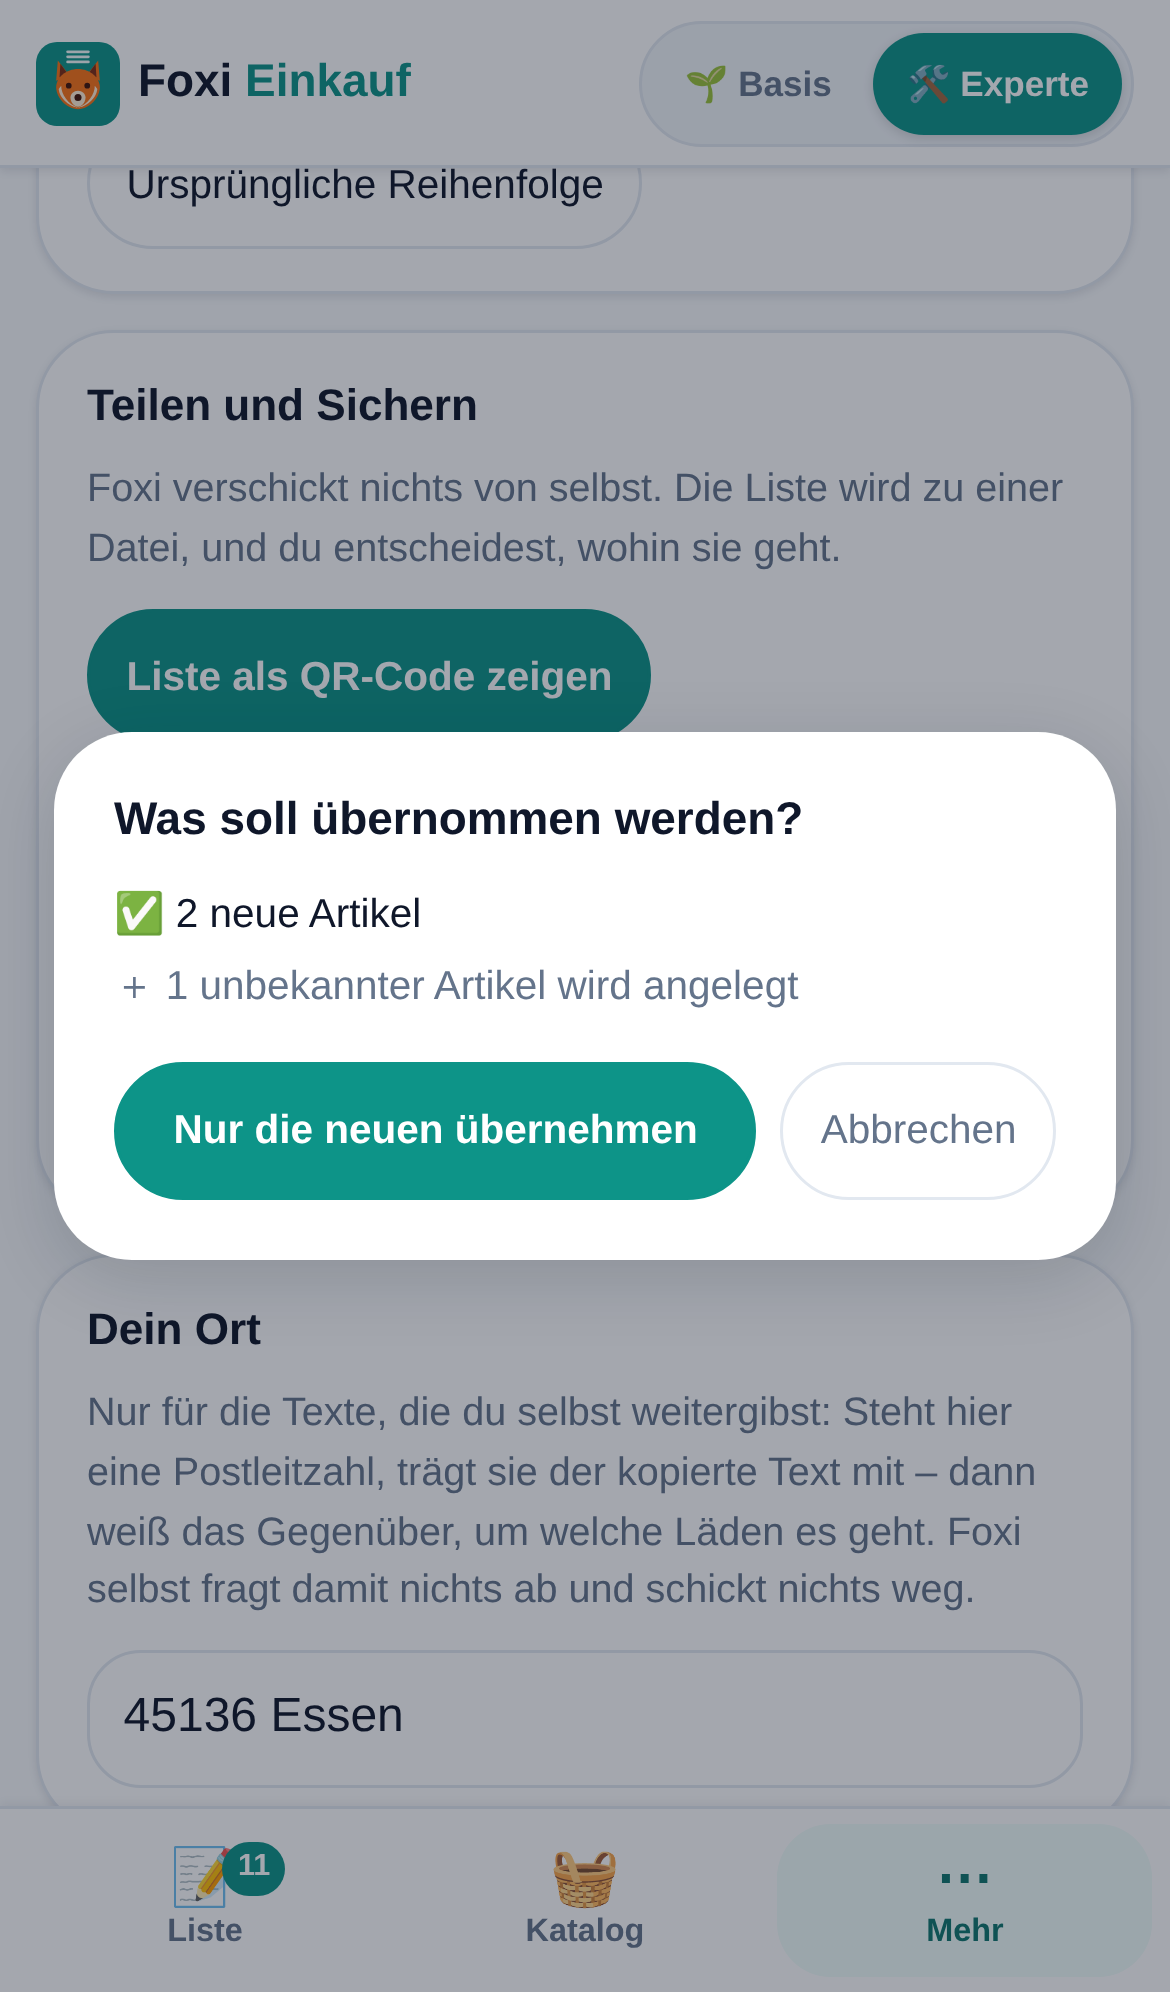
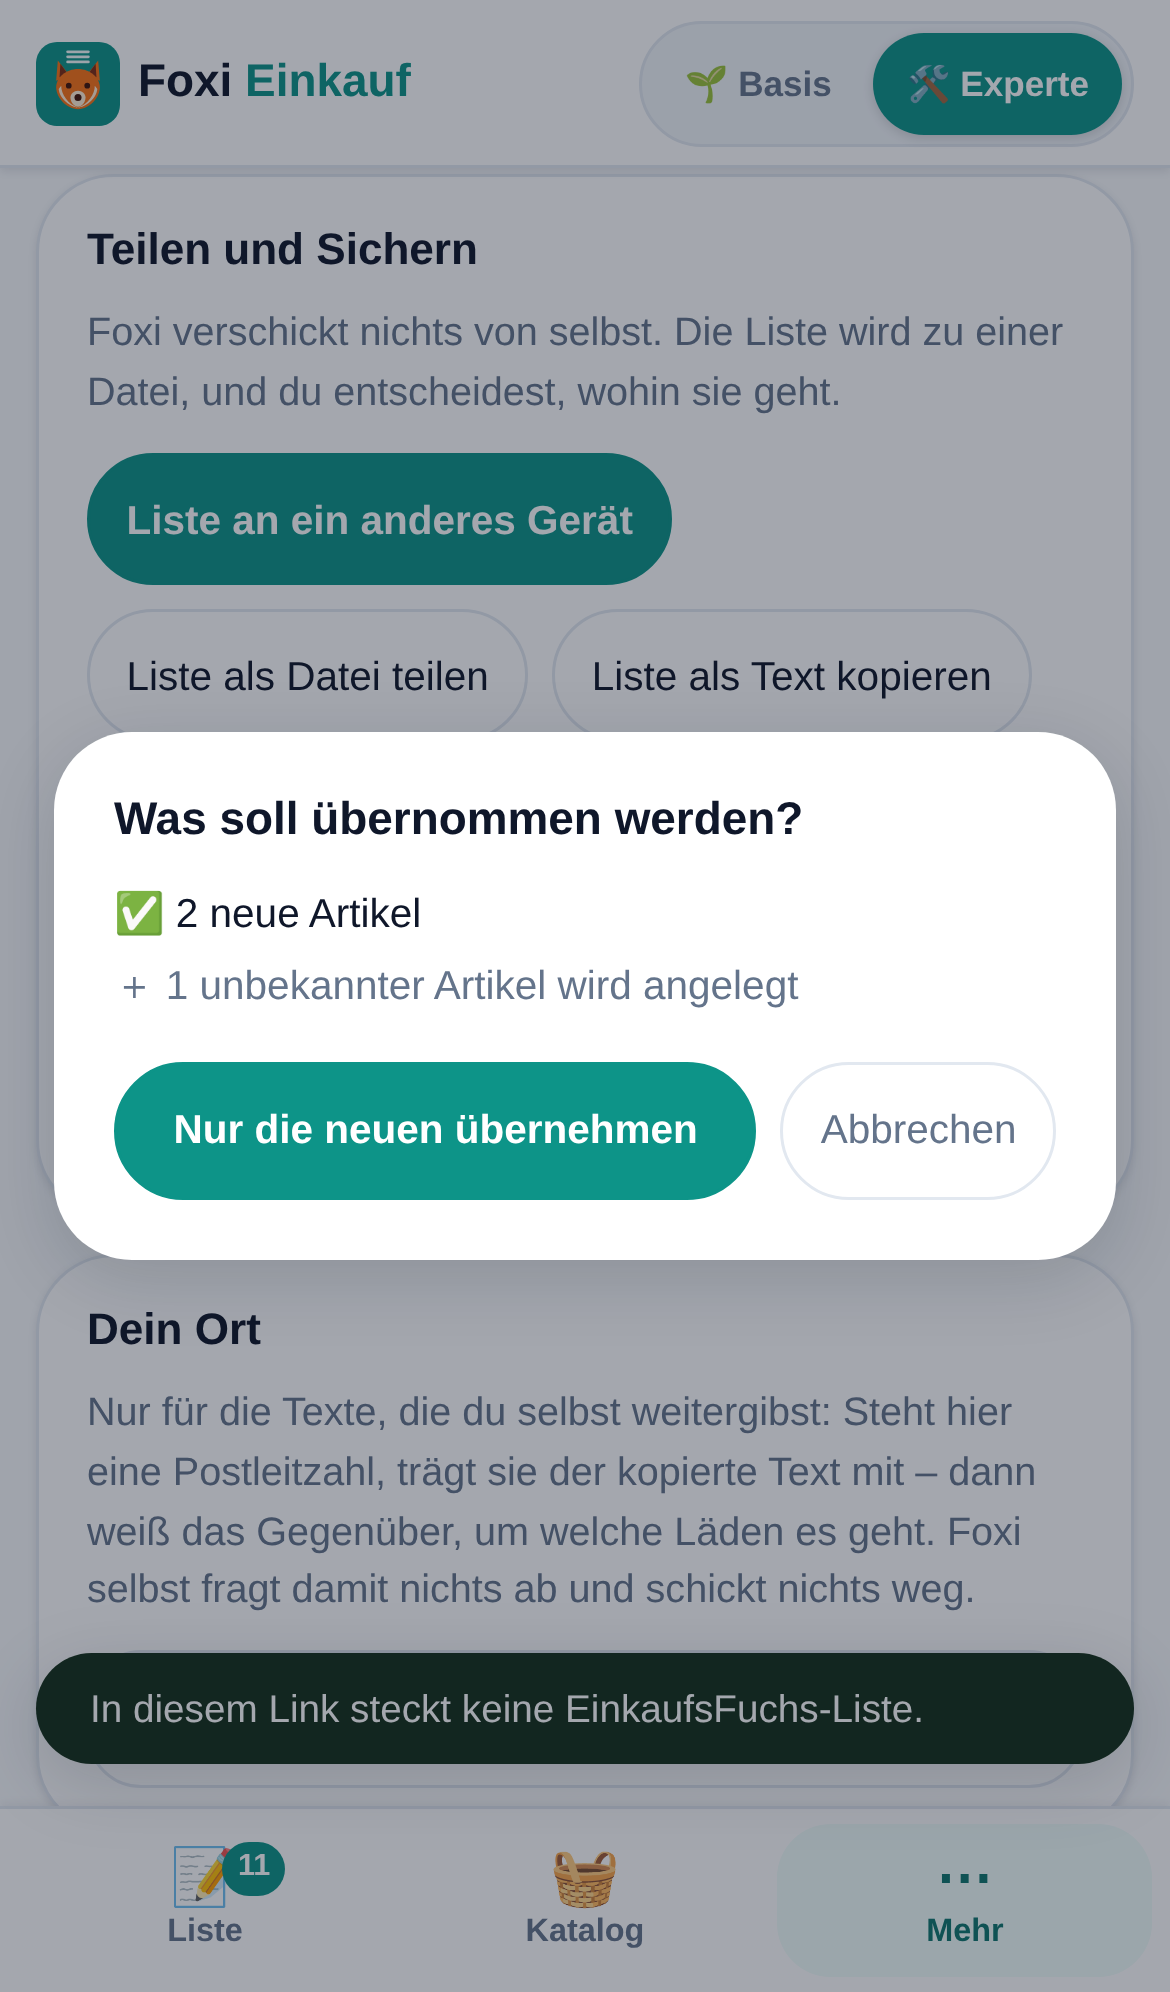
Die Liste als Link senden – und von Hand einfügen (#14)
Der QR-Code setzt denselben Raum voraus; genau dann braucht man ihn am
wenigsten. Der eigentliche Fall ist: Einer ist zu Hause, der andere im
Laden. „Als Link senden" schickt dieselbe Adresse in eine Nachricht –
die Liste steht ja im Link.

Die Gegenrichtung ist der eigentliche Punkt
Ein angetippter Link in einer Nachricht öffnet den eingebauten Browser
des Messengers, und der hat seinen eigenen Speicher. Dort übernommen,
wäre die Liste in der Foxi auf dem Startbildschirm nie angekommen –
drei Sekunden sichtbar, dann weg. Auf iOS gilt dasselbe für den
QR-Code, weil die Kamera Safari öffnet und nicht die installierte App.

Deshalb „Link einfügen" neben „Datei einlesen": Link kopieren, die
eigene Foxi öffnen, einfügen, derselbe Zusammenführungs-Dialog. Der
Satz dazu steht im Sendedialog, damit der Absender ihn weitergeben
kann. Zuerst wird die Zwischenablage gefragt; geht das nicht, erscheint
ein Feld statt einer Fehlermeldung. Der Ursprung im Link ist dabei
absichtlich egal – geprüft wird der Inhalt, nicht die Herkunft.

Nebenbei ein Fehler, den erst das Bildschirmfoto zeigte
Ein Dialog, der höher ist als der Bildschirm, stand beim Öffnen sofort
am Ende: Der Fokus sprang auf den ersten Knopf, und der steht unten in
der Leiste. Die Überschrift lag dann oberhalb des Sichtbaren. Jetzt
bekommt die Dialogkarte selbst den Fokus.

Bewusst nicht gebaut: mehrere Listen
Der Wunsch dahinter ist „nur diese drei Sachen schicken", nicht „zwei
[…]

diff --git a/src/ui/teilen.js b/src/ui/teilen.js
@@ -25,7 +25,7 @@ import {
 import { qrErzeugen, qrZeichnen } from '../qrcode.js';
 import { zustand, offeneEintraege, importAnwenden, alleArtikel, ort } from '../zustand.js';
 import { melde } from './schale.js';
-import { zeigeDialog, dialogZeile } from './dialog.js';
+import { zeigeDialog, dialogZeile, dialogFeld } from './dialog.js';
 
 /* ────────────────────────────────────────────────────────────────────────
    Hinaus
@@ -206,10 +206,96 @@ export async function zeigeQrCode() {
             rahmen,
             dialogZeile(t('qr.artikelZahl', eintraege.length), 'qr-zahl'),
             dialogZeile(t('qr.erklaerung'), 'muted small'),
+            dialogZeile(t('qr.linkGegenseite'), 'muted small'),
             dialogZeile(t('qr.ohneFotos'), 'muted small')
         ],
-        knoepfe: []
+        knoepfe: [{ text: t('qr.linkSenden'), betont: true, wirkung: teileQrLink }]
     });
+}
+
+/**
+ * Derselbe Inhalt, anderer Weg: der Link in eine Nachricht.
+ *
+ * Für den Fall, für den der QR-Code nichts taugt – der eine ist zu Hause,
+ * der andere im Laden. Bildschirm-an-Kamera setzt denselben Raum voraus;
+ * genau dann braucht man es am wenigsten.
+ *
+ * Die Liste steht **im** Link. Das ist dieselbe Kategorie wie die Datei, die
+ * Foxi schon heute per Messenger teilt: Ein Mensch entscheidet und schickt.
+ * Was der Messenger für die Vorschau holt, ist nur die App-Adresse – den
+ * Teil hinter der Raute bekommt kein Server zu sehen.
+ */
+export async function teileQrLink() {
+    const adresse = await aktuelleQrAdresse();
+    if (!adresse) { melde(t('teilen.leerNichtsZuTeilen')); return; }
+
+    if (navigator.share) {
+        try {
+            /* `url` statt `text`: Messenger und die iOS-Teilen-Auswahl
+               behandeln einen Link dann als Link. */
+            await navigator.share({ title: t('app.name'), url: adresse });
+            melde(t('teilen.geteilt'));
+            return;
+        } catch (fehler) {
+            if (fehler?.name === 'AbortError') { melde(t('teilen.abgebrochen')); return; }
+        }
+    }
+    await kopiereText(adresse, t('qr.linkKopiert'), t('qr.titel'));
+}
+
+/**
+ * Die Gegenrichtung – und der Grund, warum es sie geben muss.
+ *
+ * Ein angetippter Link in einer Nachricht öffnet den eingebauten Browser des
+ * Messengers. Der hat seinen eigenen Speicher: Dort übernommen, wäre die
+ * Liste in der richtigen Foxi nie angekommen. Deshalb der Weg von Hand –
+ * Link kopieren, eigene Foxi öffnen, hier einfügen.
+ *
+ * Erst wird die Zwischenablage gefragt; geht das nicht (Safari ohne Geste,
+ * Firefox, verweigerte Berechtigung), fragt Foxi den Menschen.
+ */
+export async function linkEinlesen() {
+    try {
+        const ablage = await navigator.clipboard.readText();
+        if (await linkUebernehmen(ablage)) return;
+    } catch {
+        /* Keine Zwischenablage: dann eben das Feld. */
+    }
+
+    const feld = dialogFeld({
+        platzhalter: t('qr.linkPlatzhalter'),
+        beschriftung: t('qr.linkTitel'),
+        bestaetigen: (wert) => linkUebernehmen(wert, true)
+    });
+    zeigeDialog({
+        titel: t('qr.linkTitel'),
+        fokus: true,
+        koerper: [feld, dialogZeile(t('qr.linkHinweis'), 'muted small')],
+        knoepfe: [{
+            text: t('qr.linkUebernehmen'),
+            betont: true,
+            wirkung: () => linkUebernehmen(feld.value, true)
+        }]
+    });
+}
+
+/**
+ * Aus einem eingefügten Text eine Liste machen.
+ *
+ * Der Ursprung im Link ist absichtlich egal: Ein Link von einer anderen
+ * Adresse derselben App – nach einem Umzug, aus einer älteren Nachricht –
+ * trägt dieselben Daten hinter der Raute. Geprüft wird der Inhalt, nicht die
+ * Herkunft; übernommen wird auch hier erst nach dem Dialog.
+ */
+async function linkUebernehmen(text, meldenWennNichts = false) {
+    const roh = String(text || '');
+    const raute = roh.indexOf('#');
+    const anteil = raute < 0 ? null : qrAnteilAusAdresse(roh.slice(raute));
+    if (!anteil) {
+        if (meldenWennNichts) melde(t('qr.linkKeineListe'));
+        return false;
+    }
+    return anteilUebernehmen(anteil);
 }
 
 /**
@@ -226,7 +312,11 @@ export async function qrAusAdresseUebernehmen(ort = window.location) {
     const anteil = qrAnteilAusAdresse(ort?.hash);
     if (!anteil) return false;
     ankerEntfernen(ort);
+    return anteilUebernehmen(anteil);
+}
 
+/** Der gemeinsame Rest beider Empfangswege: prüfen, dann fragen. */
+async function anteilUebernehmen(anteil) {
     const pruefung = await pruefeQrListe(anteil);
     if (!pruefung.gueltig) {
         const hinweis = { mehrteilig: 'qr.mehrteilig', zuAlt: 'qr.zuAlt' }[pruefung.grund] || 'qr.ungueltig';
@@ -234,8 +324,8 @@ export async function qrAusAdresseUebernehmen(ort = window.location) {
         return false;
     }
     /* Von hier an derselbe Weg wie beim Datei-Import: dieselbe Prüfung,
-       derselbe Dialog, dieselbe Übernahme. Ein QR-Code ist ein anderer
-       Transportweg, keine zweite Wahrheit. */
+       derselbe Dialog, dieselbe Übernahme. QR-Code und Link sind andere
+       Transportwege, keine zweite Wahrheit. */
     zeigeZusammenfuehrung({
         typ: DATEI_TYP,
         version: DATEI_VERSION,

diff --git a/index.html b/index.html
@@ -15,16 +15,16 @@
     <meta name="apple-mobile-web-app-capable" content="yes">
     <meta name="apple-mobile-web-app-status-bar-style" content="default">
     <meta name="apple-mobile-web-app-title" content="Foxi">
-    <link rel="apple-touch-icon" href="icons/apple-touch-icon.png?v=0.11.0">
+    <link rel="apple-touch-icon" href="icons/apple-touch-icon.png?v=0.12.0">
 
     <title>EinkaufsFuchs – Einkaufsliste</title>
     <link rel="manifest" href="manifest.webmanifest">
     <!-- Moderne Browser nehmen das skalierbare Zeichen. PNG und das
          klassische Root-Favicon bedienen ältere Browser und Dashboard-
          Crawler, die das Manifest oder SVG-Favicons nicht auswerten. -->
-    <link rel="icon" href="icons/foxi.svg?v=0.11.0" type="image/svg+xml">
-    <link rel="icon" href="icons/favicon-64.png?v=0.11.0" type="image/png" sizes="64x64">
-    <link rel="shortcut icon" href="favicon.ico?v=0.11.0" type="image/x-icon">
+    <link rel="icon" href="icons/foxi.svg?v=0.12.0" type="image/svg+xml">
+    <link rel="icon" href="icons/favicon-64.png?v=0.12.0" type="image/png" sizes="64x64">
+    <link rel="shortcut icon" href="favicon.ico?v=0.12.0" type="image/x-icon">
     <link rel="stylesheet" href="src/styles/stamm/variables.css">
     <link rel="stylesheet" href="src/styles/farben.css">
     <link rel="stylesheet" href="src/styles/stamm/base.css">
@@ -54,7 +54,7 @@
                  Namen zu hören, nicht zwei. Deshalb braucht es hier kein
                  einziges `aria`-Attribut. -->
             <div class="brand">
-                <img class="brand-icon" src="icons/foxi.svg?v=0.11.0" alt="">
+                <img class="brand-icon" src="icons/foxi.svg?v=0.12.0" alt="">
                 <span class="brand-name brand-lang" data-text="app.name">EinkaufsFuchs</span>
                 <span class="brand-name brand-kurz">
                     <span data-text="app.kurz">Foxi</span>

diff --git a/src/texte.js b/src/texte.js
@@ -166,12 +166,27 @@ const DE = {
      * weitergibt, soll wissen, was er weitergibt – und was nicht.
      */
     qr: {
-        knopf: 'Liste als QR-Code zeigen',
-        titel: 'Liste als QR-Code',
+        knopf: 'Liste an ein anderes Gerät',
+        titel: 'Liste an ein anderes Gerät',
         erklaerung:
-            'Halte die Kamera des anderen Geräts darauf – die gewöhnliche Kamera-App genügt. ' +
-            'Sie öffnet Foxi mit dieser Liste. Es wird nichts verschickt und nichts gespeichert.',
+            'Im selben Raum: Halte die Kamera des anderen Geräts darauf – die gewöhnliche ' +
+            'Kamera-App genügt. Unterwegs: Schick denselben Inhalt als Link.',
         ohneFotos: 'Fotos, Kaufhistorie und dein Ort fahren nicht mit.',
+
+        /* Der Link ist dieselbe Adresse, die im Bild steckt. */
+        linkSenden: 'Als Link senden',
+        linkKopiert: 'Link in der Zwischenablage',
+        /* Der wichtigste Satz auf dieser Seite: Ein angetippter Link in einer
+           Nachricht öffnet den eingebauten Browser des Messengers, und der
+           hat seinen eigenen Speicher. Dort übernommen, ist die Liste in der
+           richtigen Foxi nicht angekommen. */
+        linkGegenseite: 'Am anderen Ende: Link kopieren, die eigene Foxi öffnen, „Link einfügen".',
+        linkEinfuegen: 'Link einfügen',
+        linkTitel: 'Link einfügen',
+        linkPlatzhalter: 'https://…#lz=…',
+        linkHinweis: 'Kopiere den Link aus der Nachricht und füge ihn hier ein.',
+        linkUebernehmen: 'Liste lesen',
+        linkKeineListe: 'In diesem Link steckt keine EinkaufsFuchs-Liste.',
         artikelZahl: (n) => (n === 1 ? '1 Artikel' : `${n} Artikel`),
         bildBeschriftung: (n) =>
             n === 1 ? 'QR-Code mit 1 Artikel' : `QR-Code mit ${n} Artikeln`,

diff --git a/src/ui/dialog.js b/src/ui/dialog.js
@@ -88,8 +88,15 @@ export function zeigeDialog({ titel, koerper = [], knoepfe = [], fokus = false }
        `schale.js` holt ihn zurück). Der Fokus wandert trotzdem in den
        Dialog – auf den ersten Knopf –, damit Tastatur und Vorlesehilfe
        nicht hinter der Auflage weiterlaufen. */
+    /* Ohne Tippabsicht bekommt die **Karte** den Fokus, nicht der erste
+       Knopf. Der erste Knopf steht unten in der Leiste: Ihn zu fokussieren
+       rollt einen langen Dialog sofort ans Ende – die Überschrift stand dann
+       oberhalb des Sichtbaren, und man sah einen Bildschirm ohne Titel.
+       Die Karte ist per `tabindex="-1"` fokussierbar, ohne in die
+       Tabulatorreihenfolge zu geraten. */
+    karte.tabIndex = -1;
     const erstesFeld = fokus ? rumpf.querySelector('input, textarea') : null;
-    setTimeout(() => (erstesFeld || karte.querySelector('button'))?.focus(), 0);
+    setTimeout(() => (erstesFeld || karte).focus(), 0);
     return auflage;
 }
 

diff --git a/sw.js b/sw.js
@@ -11,7 +11,7 @@
  * Netz fällt Foxi auf die vollständige App-Schale zurück.
  */
 
-const CACHE = 'einkaufsfuchs-v0.11.0';
+const CACHE = 'einkaufsfuchs-v0.12.0';
 
 const SCHALE = [
     './',
@@ -41,13 +41,13 @@ const SCHALE = [
     'src/ui/artikelblatt.js',
     'src/daten/katalog.json',
     'src/daten/rezepte.json',
-    'favicon.ico?v=0.11.0',
-    'icons/foxi.svg?v=0.11.0',
-    'icons/favicon-64.png?v=0.11.0',
-    'icons/icon-192.png?v=0.11.0',
-    'icons/icon-512.png?v=0.11.0',
-    'icons/maskable-512.png?v=0.11.0',
-    'icons/apple-touch-icon.png?v=0.11.0'
+    'favicon.ico?v=0.12.0',
+    'icons/foxi.svg?v=0.12.0',
+    'icons/favicon-64.png?v=0.12.0',
+    'icons/icon-192.png?v=0.12.0',
+    'icons/icon-512.png?v=0.12.0',
+    'icons/maskable-512.png?v=0.12.0',
+    'icons/apple-touch-icon.png?v=0.12.0'
 ];
 
 self.addEventListener('install', (ereignis) => {

diff --git a/src/ui/mehr.js b/src/ui/mehr.js
@@ -19,7 +19,8 @@ import {
 import { melde, zeigeBereich } from './schale.js';
 import { zeigeDialog, dialogFeld, schliesseDialog } from './dialog.js';
 import {
-    teileAlsDatei, kopiereListeAlsText, kopiereStammartikel, dateiEinlesen, zeigeQrCode
+    teileAlsDatei, kopiereListeAlsText, kopiereStammartikel, dateiEinlesen,
+    zeigeQrCode, linkEinlesen
 } from './teilen.js';
 import {
     aktuelleAngebote, rechercheAuftragKopieren, ergebnisEinfuegen,
@@ -330,6 +331,7 @@ function teilenKarte() {
         knopf(t('teilen.alsDatei'), teileAlsDatei),
         knopf(t('teilen.alsText'), kopiereListeAlsText),
         knopf(t('teilen.stammartikel'), kopiereStammartikel),
+        knopf(t('qr.linkEinfuegen'), linkEinlesen),
         knopf(t('teilen.importieren'), dateiEinlesen)
     ));
     abschnitt.append(absatz(t('teilen.langDrueckenHinweis'), 'muted small'));

diff --git a/src/version.js b/src/version.js
@@ -1,3 +1,3 @@
 /* Die Versionskonsistenz zwischen Anwendung, Manifest, Icon-Adressen und
    Service-Worker-Cache wird in `tests/pwa.test.js` bewacht. */
-export const VERSION = '0.11.0';
+export const VERSION = '0.12.0';

diff --git a/docs/KONZEPT.md b/docs/KONZEPT.md
@@ -548,6 +548,42 @@ für dieselbe Handlung.
 schickt kein Browser zu irgendeinem Server. Was über das Netz geht, ist die
 App selbst – und auch die nur, wenn sie dort noch nicht installiert ist.
 
+### Derselbe Inhalt als Link – und die Falle dabei
+
+Bildschirm-an-Kamera setzt denselben Raum voraus; genau dann braucht man es
+am wenigsten. Der eigentliche Fall ist: Einer ist zu Hause, der andere im
+Laden. Dafür schickt „Als Link senden" **dieselbe Adresse** in eine
+Nachricht – die Liste steht ja im Link.
+
+Dabei lauert eine Falle, die den ganzen Weg stumm entwertet: **Ein
+angetippter Link in einer Nachricht öffnet den eingebauten Browser des
+Messengers.** Der hat seinen eigenen Speicher. Dort übernommen, ist die Liste
+in der Foxi auf dem Startbildschirm **nie angekommen** – sie war drei
+Sekunden lang zu sehen und ist dann weg. Dasselbe gilt auf iOS für den
+QR-Code, weil die Kamera Safari öffnet und nicht die installierte App.
+
+Deshalb gibt es die Gegenrichtung von Hand: **„Link einfügen"** neben „Datei
+einlesen". Der Ablauf unterwegs ist damit: Link kopieren → die **eigene**
+Foxi öffnen → einfügen → derselbe Zusammenführungs-Dialog. Der Satz dazu
+steht im Sendedialog, damit ihn der Absender weitergeben kann.
+
+Zwei Dinge sind beim Einfügen Absicht:
+
+- **Der Ursprung im Link ist egal.** Ein Link von einer anderen Adresse
+  derselben App – nach einem Umzug, aus einer alten Nachricht – trägt
+  dieselben Daten hinter der Raute. Geprüft wird der Inhalt, nicht die
+  Herkunft.
+- **Zuerst die Zwischenablage, dann die Frage.** Geht `readText()` nicht
+  (Safari ohne Geste, Firefox, verweigerte Berechtigung), erscheint ein Feld
+  statt einer Fehlermeldung.
+
+Und zur Einordnung, weil Foxi ein Versprechen gibt: Die Liste steht **im**
+Link; wer die Nachricht hat, hat die Liste. Das ist dieselbe Kategorie wie
+die Datei, die Foxi längst per Messenger teilt – ein Mensch entscheidet und
+schickt. Immerhin: Was ein Messenger für die Linkvorschau holt, ist nur die
+App-Adresse. Den Teil hinter der Raute bekommt auch dieser Abruf nie zu
+sehen.
+
 ### Was nicht mitfährt
 
 - **Fotos.** Ein Produktfoto ist bis 900 KB groß, ein QR-Code fasst 2,9 KB.
@@ -794,7 +830,7 @@ Tastatur öffnet.
 ```bash
 npm test                    # 191 Unit-Tests: Sortierung, Suche, Gruppierung,
                             # Exporte, Import, Datenintegrität
-node tools/durchlauf.mjs    # 93 Prüfungen im echten Browser (Chromium,
+node tools/durchlauf.mjs    # 99 Prüfungen im echten Browser (Chromium,
                             # iPhone-13-Profil) + die Bilder in docs/bilder/
 ```
 

diff --git a/README.md b/README.md
@@ -4,7 +4,7 @@
 ![Kein Konto](https://img.shields.io/badge/Kein%20Konto-kein%20Login%2C%20kein%20Backend-0f766e)
 ![PWA](https://img.shields.io/badge/PWA-offlinef%C3%A4hig-purple)
 ![MIT License](https://img.shields.io/badge/License-MIT-yellow)
-![Version](https://img.shields.io/badge/Version-0.11.0-orange)
+![Version](https://img.shields.io/badge/Version-0.12.0-orange)
 
 **Tippen statt Tippen.**
 
@@ -133,7 +133,7 @@ sichtbare Komplexität.
 | Rezepte | – | ✅ |
 | Kategorie-Reihenfolge ziehen | – | ✅ |
 | Teilen, Export und Import | – | ✅ |
-| Liste als QR-Code an ein anderes Gerät | – | ✅ |
+| Liste als QR-Code oder Link an ein anderes Gerät | – | ✅ |
 | Briefing-Export als Klartext | – | ✅ |
 | Stammartikel-Export | – | ✅ |
 | Wochenangebote mit KI | ✅ | ✅ |
@@ -163,6 +163,16 @@ Benachrichtigung; Foxi öffnet sich dort mit derselben Liste und fragt, was
 Die Daten stehen im Anker der Adresse – und alles hinter dem Rautezeichen
 schickt kein Browser zu irgendeinem Server. Ein Wocheneinkauf mit 25 Artikeln
 passt bequem in einen einzigen Code.
+
+**Unterwegs geht derselbe Inhalt als Link.** „Als Link senden" legt ihn in
+WhatsApp, Threema, Signal oder eine Mail – für den Fall, für den der QR-Code
+nichts taugt: Einer ist zu Hause, der andere im Laden.
+
+Am anderen Ende gehört dann **„Link einfügen"** dazu, und das ist kein
+Beiwerk: Ein angetippter Link öffnet den eingebauten Browser des Messengers,
+und der hat seinen eigenen Speicher – dort übernommen, wäre die Liste in der
+richtigen Foxi nie angekommen. Der Weg ist deshalb: Link kopieren, die eigene
+Foxi öffnen, einfügen.
 
 **Was nicht mitfährt:** Fotos (ein Produktfoto ist dreitausendmal so groß wie
 ein QR-Code fasst), die Kaufhistorie, die gelernten Mengen und dein Ort.
@@ -382,7 +392,7 @@ in den normalen Listenexport aufgenommen.
 
 ## Stand und was als Nächstes kommt
 
-**Gebaut (v0.11.0):** Version 1 ist inhaltlich vollständig – Basismodus,
+**Gebaut (v0.12.0):** Version 1 ist inhaltlich vollständig – Basismodus,
 lernender Katalog, Rezepte, Kategorie-Reihenfolge per Ziehen, Teilen als
 Datei mit Zusammenführung beim Import, Briefing-Export, Statistik,
 Offlinebetrieb, Installierbarkeit. Der geführte Angebotscheck verbindet Foxis

diff --git a/AGENTS.md b/AGENTS.md
@@ -57,7 +57,7 @@ QR-Code mehr.
 ```bash
 npm run dev                 # http://localhost:8080 – ohne npm install
 npm install && npm test     # 191 Unit-Tests
-node tools/durchlauf.mjs    # 93 Prüfungen im echten Browser + Bilder
+node tools/durchlauf.mjs    # 99 Prüfungen im echten Browser + Bilder
 ```
 
 Für die Prüfstrecke einmalig:
